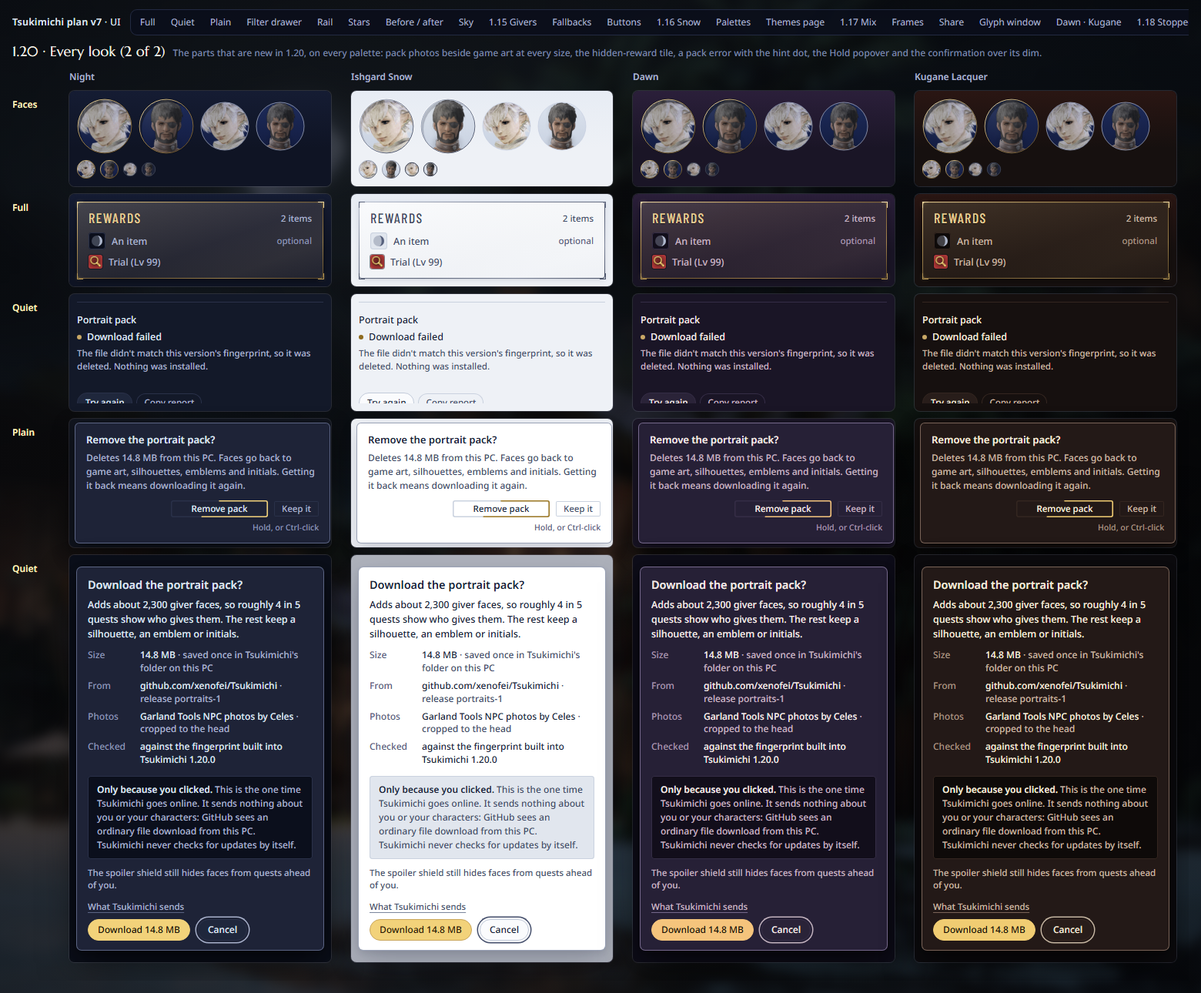
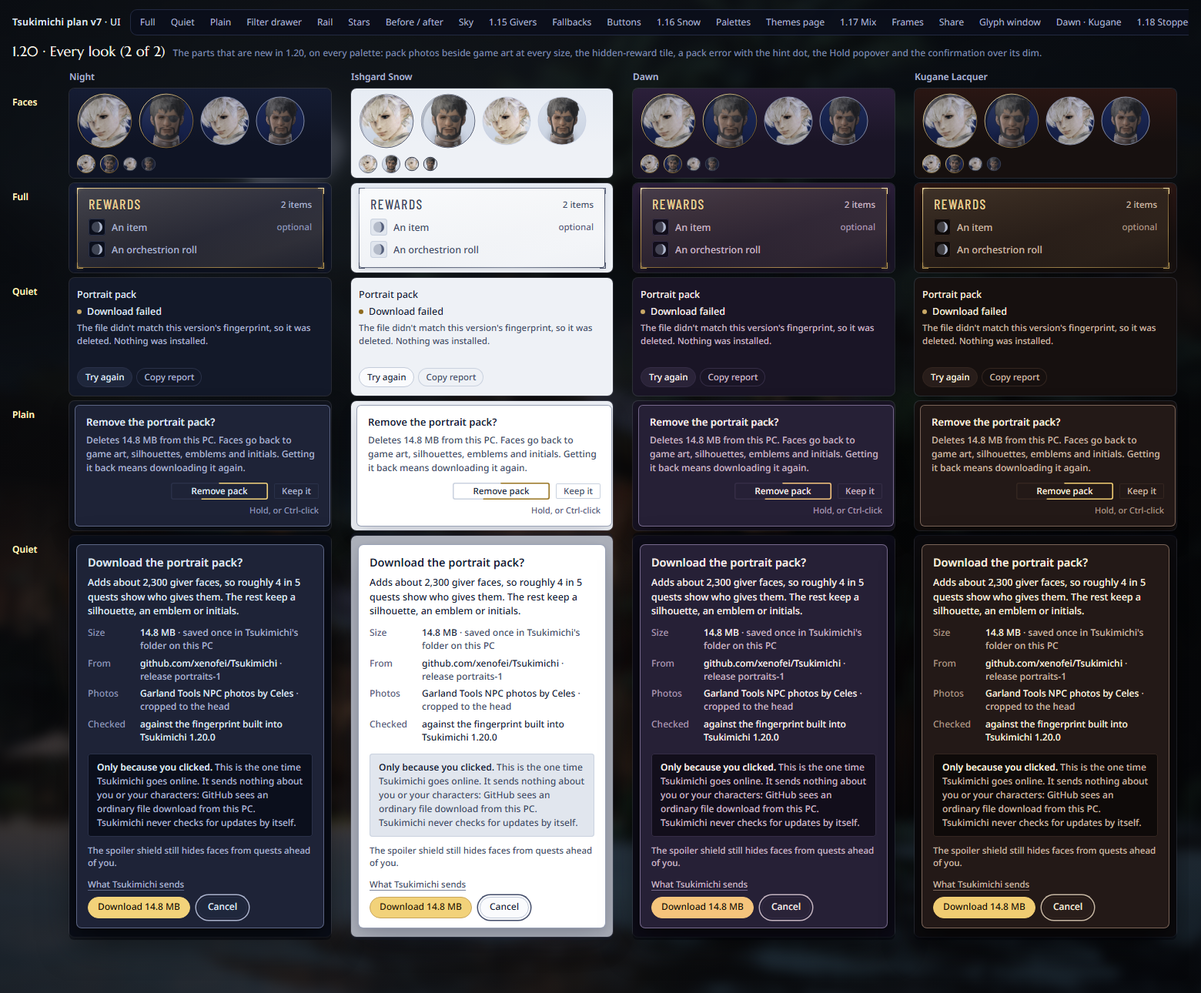
1.20 design round 3: own scrim over Settings, crop bias, review minors

diff --git a/docs/design/v7/ui/1.20/mock-1.20.html b/docs/design/v7/ui/1.20/mock-1.20.html
@@ -1844,7 +1844,7 @@ body{font:13px/1.4 "Noto Sans","Segoe UI",system-ui,sans-serif;-webkit-font-smoo
 .mk .sr20 .sm .tt20{text-align:left;font-size:11px;color:var(--dusk);line-height:1.45;margin-top:3px}
 .mk .sr20 .sa{display:flex;flex-direction:column;align-items:flex-end;gap:5px}
 .mk .sr20 .sa .p18{min-width:0}
-.mk .sr20 .sa small{font-size:10.5px;color:var(--dusk);text-align:right}
+.mk .sr20 .sa small{font-size:11px;color:var(--dusk);text-align:right}
 .mk .sr20.dis .sl,.mk .sr20.dis .sn{opacity:.55}
 .mk.plain .sr20{padding:7px 0}
 .mk .hd20dot{width:6px;height:6px;border-radius:50%;background:var(--hint);flex:none}
@@ -1997,7 +1997,7 @@ body{font:13px/1.4 "Noto Sans","Segoe UI",system-ui,sans-serif;-webkit-font-smoo
 .mk.plain .sr20.pk.nar{height:130px}
 /* placeholders in single-line slots */
 .mk .se20 .sres b,.mk .se20 .sres .via{white-space:nowrap;overflow:hidden;text-overflow:ellipsis}
-.mk .se20 .sres b.ph20{color:var(--mist);font-weight:500}
+.mk .se20 .sres b.ph20,.mk .se20 .sres b.ph20 *{color:var(--mist);font-weight:500}
 .mk .ro20 .rr{gap:10px}
 /* Chrome.HoldButton */
 .mk .hb20{position:relative;display:inline-flex;align-items:center;justify-content:center;font-size:12px;color:var(--silver);background:var(--raised)}
@@ -2008,7 +2008,7 @@ body{font:13px/1.4 "Noto Sans","Segoe UI",system-ui,sans-serif;-webkit-font-smoo
 .mk .hb20 svg{position:absolute;inset:0}
 .mk .hb20>span{position:relative}
 .mk.plain .hb20{font-size:11.5px}
-.mk .pop20 .hn{margin:6px 0 0;font-size:10.5px;color:var(--dusk);text-align:right}
+.mk .pop20 .hn{margin:6px 0 0;font-size:11px;color:var(--dusk);text-align:right}
 .mk .hbrow{display:flex;align-items:center;gap:10px}
 .mk .hbrow small{font-size:11px;color:var(--dusk)}
 .mk .pop20{box-sizing:border-box}
@@ -2031,6 +2031,10 @@ body{font:13px/1.4 "Noto Sans","Segoe UI",system-ui,sans-serif;-webkit-font-smoo
 .mk .be20.nar .ba .ys{padding-left:2px}
 .lg20 .be20 .bl{padding:6px 0}
 .lg20 .be20 .bs{margin-bottom:3px}
+/* round 3: the Plain giver line ellipsises; the error row's cell keeps its fixed height */
+.mk.plain .kv dd{overflow:hidden}
+.mk.plain .kv dd .mu,.mk.plain .kv dd .ph20{white-space:nowrap;overflow:hidden;text-overflow:ellipsis;min-width:0}
+.lg20 .set20 .sr20.pk{border-top:0;padding-top:4px}
 
 </style>
 </head>
@@ -5094,8 +5098,8 @@ body{font:13px/1.4 "Noto Sans","Segoe UI",system-ui,sans-serif;-webkit-font-smoo
   // The portrait pack's photos (Garland Tools NPC renders, credit Celes), head-cropped to the 1.15 framing rule:
   // crown 8–12 %, eye line 42–46 %, chin 78–84 %. 380 × 706 full-body renders on alpha.
   SRC.pack = { w: 380, h: 706, crop: [144, 106, 96, 96], fam: "colour", label: "Garland Tools photo · credit Celes" };
-  GIVERS.buscarron = { name: "Buscarron", file: "../1.20/art/Enpc_1000590", src: "pack", crop: [146, 107, 92], place: "Buscarron's Druthers · South Shroud" };
-  GIVERS.isembard = { name: "Isembard", file: "../1.20/art/Enpc_1003929", src: "pack", crop: [150, 113, 84], place: "Eastern Thanalan" };
+  GIVERS.buscarron = { name: "Buscarron", file: "../1.20/art/Enpc_1000590", src: "pack", crop: [150, 113, 82], place: "Buscarron's Druthers · South Shroud" };
+  GIVERS.isembard = { name: "Isembard", file: "../1.20/art/Enpc_1003929", src: "pack", crop: [154, 117, 76], place: "Eastern Thanalan" };
   function onPal(pal, fn) { var s = SNOW; SNOW = pal === "snow"; try { return fn(); } finally { SNOW = s; } }
   // The hidden-reward tile: the 1.15 moon disc (a .32 disc and its lit crescent), 14 px across on a 22 px tile.
   // On Ishgard Snow it takes the 1.16 fallback ink #56607C.
@@ -5132,7 +5136,7 @@ body{font:13px/1.4 "Noto Sans","Segoe UI",system-ui,sans-serif;-webkit-font-smoo
 
   // ---------- N6: the masked quest in the detail pane ----------
   function giver20(lv, size) {
-    if (lv === "plain") return '<div class="ps">Giver<span></span></div><dl class="kv"><dt>Giver</dt><dd>' + sil20(18, lv, "hyur-female") + ph("Dawntrail character") + '<span class="mu">· ' + nb("Dawntrail area 6") + "</span></dd></dl>";
+    if (lv === "plain") return '<div class="ps">Giver<span></span></div><dl class="kv"><dt>Giver</dt><dd>' + sil20(18, lv, "hyur-female") + ph("Dawntrail character") + '<span class="mu">· ' + nb("area 6") + "</span></dd></dl>";
     return sect19(lv, "Giver", "", '<div class="gv20">' + sil20(size || (lv === "quiet" ? 64 : 72), lv, "hyur-female") + '<div class="gt"><b class="ph20">Dawntrail character</b><span>' + nb("Dawntrail area 6") + "</span></div></div>");
   }
   function shieldDetail(lv) {
@@ -5204,7 +5208,7 @@ body{font:13px/1.4 "Noto Sans","Segoe UI",system-ui,sans-serif;-webkit-font-smoo
   // ---------- N7: the Before Evercold card ----------
   var BE = {
     story: { icon: ic15("071201", 18, "marker"), t: "Finish the main story", d: "14 quests left, through Patch 7.5", a: [qa19("Show next"), qa19("Route")] },
-    room: { icon: ICON.book, t: "Room in your journal", d: "27 of 30 slots used. Evercold brings new quests.", a: [qa19("Make room")] },
+    room: { icon: ICON.book, t: "Room in your journal", d: "27 of 30 slots used; Evercold adds quests.", a: [qa19("Make room")] },
     jobs: { icon: ic15("062122", 18, "tile"), t: "Job and role quests", d: "Your DRG, SGE and CUL have quests you can take now", a: [qa19("Show them")] },
     duties: { icon: ic15("000046", 18, "tile"), t: "Duties for the roulettes", d: "2 Dawntrail duties not unlocked yet", a: [qa19("Duties board")] },
     fly: { icon: ic15("000122", 18, "tile"), t: "Flying in Dawntrail", d: "2 areas left: Shaaloani, " + ph("Dawntrail area 6"), a: [qa19("Route")] }
@@ -5312,14 +5316,14 @@ body{font:13px/1.4 "Noto Sans","Segoe UI",system-ui,sans-serif;-webkit-font-smoo
   function boardPack() {
     var h = '<div class="board b15 b16 b20"><h2>1.20 · The portrait pack<small>F4. Opt-in, from Tsukimichi\'s own GitHub release, behind a confirmation that says size, source and the local-only promise. One row in Settings › General › Look shows every state in place, at one fixed height.</small></h2><div class="row">';
     h += '<div class="col" style="width:760px">';
-    h += fig(look18("full", "night", '<div class="scrim20"><div class="under">' + lookSettings("full", "none", 1) + '</div><div class="over">' + packDialog("full") + "</div></div>", 760), "<b>Download…</b>, or picking <b>Game art + pack</b> without the pack, opens the confirmation: a modal over Settings, its dim the only scrim. Focus starts on Cancel; Enter and Esc cancel");
+    h += fig(look18("full", "night", '<div class="scrim20"><div class="under">' + lookSettings("full", "none", 1) + '</div><div class="over">' + packDialog("full") + "</div></div>", 760), "<b>Download…</b>, or picking <b>Game art + pack</b> without the pack, opens the confirmation: a window kept in front of Settings, with its own scrim over Settings only (not ImGui's full-screen modal dim). Focus starts on Cancel; Enter and Esc cancel");
     h += fig(look18("full", "night", '<div class="set20">' + packRow("full", "dl") + packRow("full", "chk") + packRow("full", "ok") + packRow("full", "upd") + "</div>", 760), "<b>Downloading → checking → installed</b>, and the <b>update offer</b> after Dalamud updates Tsukimichi: every state the same height, slots reserved");
     h += "</div>";
     h += '<div class="col" style="width:740px">';
     h += fig(look18("full", "night", '<div class="set20">' + packRow("full", "net") + packRow("full", "hash") + packRow("full", "disk") + packRow("full", "cxl") + "</div>", 740), "<b>Errors</b>: words in Text with the Settings hint dot; the reason, what was kept, one way forward. The same fixed height");
     h += '<div class="row">';
     h += fig(look18("full", "night", removePop("full", 58) + '<div style="height:8px"></div><div class="hbrow">' + hold20("full", "Remove pack", 0, true) + "<small>Reduce motion: the countdown</small></div>", 360, ";background:transparent"), "<b>Remove pack…</b>: the confirm with the shipped Hold button, mid-hold (a Moon arc from the top centre)");
-    h += fig(look18("full", "night", '<div class="tipf20">' + pface(92, "full", "buscarron") + "<b>Buscarron</b><p class=\"src\">Portrait: Garland Tools photo · credit Celes</p><p>Buscarron's Druthers · South Shroud</p></div>", 220, ";background:transparent"), "<b>Hover</b>: a pack photo is never drawn above its own box (92 px here)");
+    h += fig(look18("full", "night", '<div class="tipf20">' + pface(82, "full", "buscarron") + "<b>Buscarron</b><p class=\"src\">Portrait: Garland Tools photo · credit Celes</p><p>Buscarron's Druthers · South Shroud</p></div>", 220, ";background:transparent"), "<b>Hover</b>: a pack photo is never drawn above its own box (82 px here)");
     h += "</div>";
     h += fig(look18("full", "night", '<div class="ba20">' + plate(72, "full", "initials", { text: "B" }) + '<span class="ar">→</span>' + pface(72, "full", "buscarron") + '<span style="width:24px"></span>' + sil20(72, "full", "hyur-male") + '<span class="ar">→</span>' + pface(72, "full", "isembard") + '<span style="width:24px"></span>' + face(72, "full", "alphinaud") + "</div>", 740), "<b>With the pack</b>: Buscarron (initials → photo), Isembard (silhouette → photo), and Alphinaud's Duty Support portrait for comparison, all graded alike; faces fade in over 0.3 s");
     h += fig(look18("full", "night", '<span class="sbn20"><b>Portrait pack installed</b>· 2,310 faces</span><div style="height:8px"></div><div class="set20"><div class="sr20" style="grid-template-columns:150px 1fr"><span class="sl">Sends</span><div class="sm"><div class="sn">Nothing, except the portrait pack when you click Download: one file from Tsukimichi\'s GitHub release.</div></div></div></div>', 740), "<b>Status-bar note</b> when it lands, and the <b>Privacy &amp; trust</b> line that changes with F4");
@@ -5348,7 +5352,7 @@ body{font:13px/1.4 "Noto Sans","Segoe UI",system-ui,sans-serif;-webkit-font-smoo
     h = lookHead(h);
     var rows = [
       ["Faces", "full", function (lv) { return '<div class="fs20">' + face(72, "full", "alphinaud") + pface(72, "full", "buscarron") + face(64, "quiet", "alphinaud") + pface(64, "quiet", "buscarron") + '<span class="sm20">' + face(24, "full", "alphinaud") + pface(24, "full", "buscarron") + face(18, "plain", "alphinaud") + pface(18, "plain", "buscarron") + "</span></div>"; }],
-      ["Full", "full", function (lv) { return sect19(lv, "Rewards", "2 items", '<div class="rwl20" style="margin-top:0">' + hid20() + ph("An item") + '<span class="k">optional</span></div><div class="rwl20">' + ic15("000046", 18, "tile") + ph("Trial (Lv 99)") + "</div>"); }],
+      ["Full", "full", function (lv) { return sect19(lv, "Rewards", "2 items", '<div class="rwl20" style="margin-top:0">' + hid20() + ph("An item") + '<span class="k">optional</span></div><div class="rwl20">' + hid20() + ph("An orchestrion roll") + "</div>"); }],
       ["Quiet", "quiet", function (lv) { return '<div class="set20">' + packRow(lv, "hash", false, true) + "</div>"; }],
       ["Plain", "plain", function (lv) { return removePop(lv, 58); }],
       ["Quiet", "quiet", function (lv) { return '<div class="dim20">' + packDialog(lv, false, "cmp") + "</div>"; }]

diff --git a/docs/design/v7/ui/1.20/mock-src/v720.js b/docs/design/v7/ui/1.20/mock-src/v720.js
@@ -8,8 +8,8 @@
   // The portrait pack's photos (Garland Tools NPC renders, credit Celes), head-cropped to the 1.15 framing rule:
   // crown 8–12 %, eye line 42–46 %, chin 78–84 %. 380 × 706 full-body renders on alpha.
   SRC.pack = { w: 380, h: 706, crop: [144, 106, 96, 96], fam: "colour", label: "Garland Tools photo · credit Celes" };
-  GIVERS.buscarron = { name: "Buscarron", file: "../1.20/art/Enpc_1000590", src: "pack", crop: [146, 107, 92], place: "Buscarron's Druthers · South Shroud" };
-  GIVERS.isembard = { name: "Isembard", file: "../1.20/art/Enpc_1003929", src: "pack", crop: [150, 113, 84], place: "Eastern Thanalan" };
+  GIVERS.buscarron = { name: "Buscarron", file: "../1.20/art/Enpc_1000590", src: "pack", crop: [150, 113, 82], place: "Buscarron's Druthers · South Shroud" };
+  GIVERS.isembard = { name: "Isembard", file: "../1.20/art/Enpc_1003929", src: "pack", crop: [154, 117, 76], place: "Eastern Thanalan" };
   function onPal(pal, fn) { var s = SNOW; SNOW = pal === "snow"; try { return fn(); } finally { SNOW = s; } }
   // The hidden-reward tile: the 1.15 moon disc (a .32 disc and its lit crescent), 14 px across on a 22 px tile.
   // On Ishgard Snow it takes the 1.16 fallback ink #56607C.
@@ -46,7 +46,7 @@
 
   // ---------- N6: the masked quest in the detail pane ----------
   function giver20(lv, size) {
-    if (lv === "plain") return '<div class="ps">Giver<span></span></div><dl class="kv"><dt>Giver</dt><dd>' + sil20(18, lv, "hyur-female") + ph("Dawntrail character") + '<span class="mu">· ' + nb("Dawntrail area 6") + "</span></dd></dl>";
+    if (lv === "plain") return '<div class="ps">Giver<span></span></div><dl class="kv"><dt>Giver</dt><dd>' + sil20(18, lv, "hyur-female") + ph("Dawntrail character") + '<span class="mu">· ' + nb("area 6") + "</span></dd></dl>";
     return sect19(lv, "Giver", "", '<div class="gv20">' + sil20(size || (lv === "quiet" ? 64 : 72), lv, "hyur-female") + '<div class="gt"><b class="ph20">Dawntrail character</b><span>' + nb("Dawntrail area 6") + "</span></div></div>");
   }
   function shieldDetail(lv) {
@@ -118,7 +118,7 @@
   // ---------- N7: the Before Evercold card ----------
   var BE = {
     story: { icon: ic15("071201", 18, "marker"), t: "Finish the main story", d: "14 quests left, through Patch 7.5", a: [qa19("Show next"), qa19("Route")] },
-    room: { icon: ICON.book, t: "Room in your journal", d: "27 of 30 slots used. Evercold brings new quests.", a: [qa19("Make room")] },
+    room: { icon: ICON.book, t: "Room in your journal", d: "27 of 30 slots used; Evercold adds quests.", a: [qa19("Make room")] },
     jobs: { icon: ic15("062122", 18, "tile"), t: "Job and role quests", d: "Your DRG, SGE and CUL have quests you can take now", a: [qa19("Show them")] },
     duties: { icon: ic15("000046", 18, "tile"), t: "Duties for the roulettes", d: "2 Dawntrail duties not unlocked yet", a: [qa19("Duties board")] },
     fly: { icon: ic15("000122", 18, "tile"), t: "Flying in Dawntrail", d: "2 areas left: Shaaloani, " + ph("Dawntrail area 6"), a: [qa19("Route")] }
@@ -226,14 +226,14 @@
   function boardPack() {
     var h = '<div class="board b15 b16 b20"><h2>1.20 · The portrait pack<small>F4. Opt-in, from Tsukimichi\'s own GitHub release, behind a confirmation that says size, source and the local-only promise. One row in Settings › General › Look shows every state in place, at one fixed height.</small></h2><div class="row">';
     h += '<div class="col" style="width:760px">';
-    h += fig(look18("full", "night", '<div class="scrim20"><div class="under">' + lookSettings("full", "none", 1) + '</div><div class="over">' + packDialog("full") + "</div></div>", 760), "<b>Download…</b>, or picking <b>Game art + pack</b> without the pack, opens the confirmation: a modal over Settings, its dim the only scrim. Focus starts on Cancel; Enter and Esc cancel");
+    h += fig(look18("full", "night", '<div class="scrim20"><div class="under">' + lookSettings("full", "none", 1) + '</div><div class="over">' + packDialog("full") + "</div></div>", 760), "<b>Download…</b>, or picking <b>Game art + pack</b> without the pack, opens the confirmation: a window kept in front of Settings, with its own scrim over Settings only (not ImGui's full-screen modal dim). Focus starts on Cancel; Enter and Esc cancel");
     h += fig(look18("full", "night", '<div class="set20">' + packRow("full", "dl") + packRow("full", "chk") + packRow("full", "ok") + packRow("full", "upd") + "</div>", 760), "<b>Downloading → checking → installed</b>, and the <b>update offer</b> after Dalamud updates Tsukimichi: every state the same height, slots reserved");
     h += "</div>";
     h += '<div class="col" style="width:740px">';
     h += fig(look18("full", "night", '<div class="set20">' + packRow("full", "net") + packRow("full", "hash") + packRow("full", "disk") + packRow("full", "cxl") + "</div>", 740), "<b>Errors</b>: words in Text with the Settings hint dot; the reason, what was kept, one way forward. The same fixed height");
     h += '<div class="row">';
     h += fig(look18("full", "night", removePop("full", 58) + '<div style="height:8px"></div><div class="hbrow">' + hold20("full", "Remove pack", 0, true) + "<small>Reduce motion: the countdown</small></div>", 360, ";background:transparent"), "<b>Remove pack…</b>: the confirm with the shipped Hold button, mid-hold (a Moon arc from the top centre)");
-    h += fig(look18("full", "night", '<div class="tipf20">' + pface(92, "full", "buscarron") + "<b>Buscarron</b><p class=\"src\">Portrait: Garland Tools photo · credit Celes</p><p>Buscarron's Druthers · South Shroud</p></div>", 220, ";background:transparent"), "<b>Hover</b>: a pack photo is never drawn above its own box (92 px here)");
+    h += fig(look18("full", "night", '<div class="tipf20">' + pface(82, "full", "buscarron") + "<b>Buscarron</b><p class=\"src\">Portrait: Garland Tools photo · credit Celes</p><p>Buscarron's Druthers · South Shroud</p></div>", 220, ";background:transparent"), "<b>Hover</b>: a pack photo is never drawn above its own box (82 px here)");
     h += "</div>";
     h += fig(look18("full", "night", '<div class="ba20">' + plate(72, "full", "initials", { text: "B" }) + '<span class="ar">→</span>' + pface(72, "full", "buscarron") + '<span style="width:24px"></span>' + sil20(72, "full", "hyur-male") + '<span class="ar">→</span>' + pface(72, "full", "isembard") + '<span style="width:24px"></span>' + face(72, "full", "alphinaud") + "</div>", 740), "<b>With the pack</b>: Buscarron (initials → photo), Isembard (silhouette → photo), and Alphinaud's Duty Support portrait for comparison, all graded alike; faces fade in over 0.3 s");
     h += fig(look18("full", "night", '<span class="sbn20"><b>Portrait pack installed</b>· 2,310 faces</span><div style="height:8px"></div><div class="set20"><div class="sr20" style="grid-template-columns:150px 1fr"><span class="sl">Sends</span><div class="sm"><div class="sn">Nothing, except the portrait pack when you click Download: one file from Tsukimichi\'s GitHub release.</div></div></div></div>', 740), "<b>Status-bar note</b> when it lands, and the <b>Privacy &amp; trust</b> line that changes with F4");
@@ -262,7 +262,7 @@
     h = lookHead(h);
     var rows = [
       ["Faces", "full", function (lv) { return '<div class="fs20">' + face(72, "full", "alphinaud") + pface(72, "full", "buscarron") + face(64, "quiet", "alphinaud") + pface(64, "quiet", "buscarron") + '<span class="sm20">' + face(24, "full", "alphinaud") + pface(24, "full", "buscarron") + face(18, "plain", "alphinaud") + pface(18, "plain", "buscarron") + "</span></div>"; }],
-      ["Full", "full", function (lv) { return sect19(lv, "Rewards", "2 items", '<div class="rwl20" style="margin-top:0">' + hid20() + ph("An item") + '<span class="k">optional</span></div><div class="rwl20">' + ic15("000046", 18, "tile") + ph("Trial (Lv 99)") + "</div>"); }],
+      ["Full", "full", function (lv) { return sect19(lv, "Rewards", "2 items", '<div class="rwl20" style="margin-top:0">' + hid20() + ph("An item") + '<span class="k">optional</span></div><div class="rwl20">' + hid20() + ph("An orchestrion roll") + "</div>"); }],
       ["Quiet", "quiet", function (lv) { return '<div class="set20">' + packRow(lv, "hash", false, true) + "</div>"; }],
       ["Plain", "plain", function (lv) { return removePop(lv, 58); }],
       ["Quiet", "quiet", function (lv) { return '<div class="dim20">' + packDialog(lv, false, "cmp") + "</div>"; }]

diff --git a/docs/design/v7/ui/1.20/mock-src/v720.css b/docs/design/v7/ui/1.20/mock-src/v720.css
@@ -66,7 +66,7 @@
 .mk .sr20 .sm .tt20{text-align:left;font-size:11px;color:var(--dusk);line-height:1.45;margin-top:3px}
 .mk .sr20 .sa{display:flex;flex-direction:column;align-items:flex-end;gap:5px}
 .mk .sr20 .sa .p18{min-width:0}
-.mk .sr20 .sa small{font-size:10.5px;color:var(--dusk);text-align:right}
+.mk .sr20 .sa small{font-size:11px;color:var(--dusk);text-align:right}
 .mk .sr20.dis .sl,.mk .sr20.dis .sn{opacity:.55}
 .mk.plain .sr20{padding:7px 0}
 .mk .hd20dot{width:6px;height:6px;border-radius:50%;background:var(--hint);flex:none}
@@ -219,7 +219,7 @@
 .mk.plain .sr20.pk.nar{height:130px}
 /* placeholders in single-line slots */
 .mk .se20 .sres b,.mk .se20 .sres .via{white-space:nowrap;overflow:hidden;text-overflow:ellipsis}
-.mk .se20 .sres b.ph20{color:var(--mist);font-weight:500}
+.mk .se20 .sres b.ph20,.mk .se20 .sres b.ph20 *{color:var(--mist);font-weight:500}
 .mk .ro20 .rr{gap:10px}
 /* Chrome.HoldButton */
 .mk .hb20{position:relative;display:inline-flex;align-items:center;justify-content:center;font-size:12px;color:var(--silver);background:var(--raised)}
@@ -230,7 +230,7 @@
 .mk .hb20 svg{position:absolute;inset:0}
 .mk .hb20>span{position:relative}
 .mk.plain .hb20{font-size:11.5px}
-.mk .pop20 .hn{margin:6px 0 0;font-size:10.5px;color:var(--dusk);text-align:right}
+.mk .pop20 .hn{margin:6px 0 0;font-size:11px;color:var(--dusk);text-align:right}
 .mk .hbrow{display:flex;align-items:center;gap:10px}
 .mk .hbrow small{font-size:11px;color:var(--dusk)}
 .mk .pop20{box-sizing:border-box}
@@ -253,3 +253,7 @@
 .mk .be20.nar .ba .ys{padding-left:2px}
 .lg20 .be20 .bl{padding:6px 0}
 .lg20 .be20 .bs{margin-bottom:3px}
+/* round 3: the Plain giver line ellipsises; the error row's cell keeps its fixed height */
+.mk.plain .kv dd{overflow:hidden}
+.mk.plain .kv dd .mu,.mk.plain .kv dd .ph20{white-space:nowrap;overflow:hidden;text-overflow:ellipsis;min-width:0}
+.lg20 .set20 .sr20.pk{border-top:0;padding-top:4px}

diff --git a/docs/design/v7/ui/spec-1.20.md b/docs/design/v7/ui/spec-1.20.md
@@ -18,6 +18,8 @@ The behaviour follows ideas 3 and 4 of `docs/research/plan-v7/feature-ideas.md` 
 5. Placeholders get a layout rule: non-breaking locators, single-line slots with an ellipsis, multi-line slots sized for the longer string, and composite strings in Secondary as a whole (N6).
 6. A second looks board covers every new part on every palette (`looks-new-1.20.png`).
 
+**Revision 3** applies the second review (CHANGES: one major finding). The confirmation no longer uses ImGui's modal dim, which covers the whole game screen, fades on its own clock and ignores the plugin's colours. Tsukimichi draws its own scrim over the Settings window only and blocks Settings' input itself (F4, "The confirmation"). Five minor findings and the nits are fixed in the same pass.
+
 **The principles:**
 - **Nothing new floats.** The shield changes words, not layout. The prep card is a card inside Tonight and the Characters dashboard. The pack is one Settings row, plus a confirmation window that opens only on a click.
 - **Static layout.** A placeholder takes the place of the name it hides, at the same size. The prep card never reorders while you look at it. The pack row keeps its height through every state.
@@ -32,14 +34,14 @@ The behaviour follows ideas 3 and 4 of `docs/research/plan-v7/feature-ideas.md` 
 | `spec-1.20.md` | This spec |
 | `1.20/mock-1.20.html` | The 1.20 boards: `#shield20`, `#prep20`, `#pack20`, `#looks20`, `#looks20b`. Built by `1.20/mock-src/build.py` from the shared `mock.html` plus `1.20/mock-src/v720.css` and `v720.js`. No shared `mock-src` file changes. |
 | `1.20/shield-1.20.png` | N6: a masked quest in the detail pane, table rows before and after, Settings › Spoilers, the hover and right-click, Route, Find by unlock, and the placeholder vocabulary |
-| `1.20/prep-card-1.20.png` | N7: the card in Tonight, a stored alt in the Characters dashboard, all done, the Undo toast, the way back, the line hover and the five lines' rules |
-| `1.20/portrait-pack-1.20.png` | F4: the confirmation over Settings › General › Look, downloading, checking, installed, the update offer, four errors and Cancelled, Remove pack, the pack faces at 72, 64 and 18 px, the hover, the status-bar note and the Privacy & trust line |
+| `1.20/prep-card-1.20.png` | N7: the card in Tonight, a stored alt in the Characters dashboard, a tick before and after, all done, the Undo toast, the way back, the line hover and the five lines' rules |
+| `1.20/portrait-pack-1.20.png` | F4: the confirmation over Settings › General › Look, downloading, checking, installed, the update offer, three errors and Cancelled, Remove pack (mid-hold, and the Reduce-motion countdown), two pack faces beside Alphinaud's game-art face at 72 px, the hover, the status-bar note and the Privacy & trust line |
 | `1.20/looks-1.20.png` | Every look (1 of 2): the prep card, a masked giver and the pack row at Full, Quiet and Plain on Night, Ishgard Snow, Dawn and Kugane Lacquer |
 | `1.20/looks-new-1.20.png` | Every look (2 of 2), on all four palettes: pack photos beside a game-art face at 72, 64, 24 and 18 px; the hidden-reward tile; a pack error with the hint dot; the Remove pack popover at Plain; the compact confirmation over its dim at Quiet |
 | `1.20/mock-src/render.py` | Renders the five PNGs with headless Chrome at 1560 px wide (long edge ≤ 1568) |
 | `1.20/art/Enpc_1000590.png`, `Enpc_1003929.png` | Two Garland Tools NPC photos (Buscarron, Isembard; photos by Celes), for the mock only, to show what pack faces look like on the 1.15 plate |
 
-**The mock's data.** The Dawntrail zone names (Heritage Found, Living Memory, Kozama'uka, Shaaloani), duty names and levels (Vanguard 97, Origenics 99, Alexandria 100, The Interphos 100) are real. Which quest unlocks which, the area numbers and the character's counts are illustrative. The two pack photos are real Garland Tools renders, cropped by the 1.15 framing rule (Buscarron: box 146, 107, 92; Isembard: 150, 113, 84, measured on a 4× zoom).
+**The mock's data.** The Dawntrail zone names (Heritage Found, Living Memory, Kozama'uka, Shaaloani), duty names and levels (Vanguard 97, Origenics 99, Alexandria 100, The Interphos 100) are real. Which quest unlocks which, the area numbers and the character's counts are illustrative. The two pack photos are real Garland Tools renders, cropped by the 1.15 framing rule (Buscarron: box 150, 113, 82; Isembard: 154, 117, 76, measured on a 4× zoom; eye line at 43%, chin at 82–83%).
 
 ---
 
@@ -91,8 +93,9 @@ Today the shield hides main scenario quest names past your position (plus a few 
 - **The same size, weight and slot as the name.** Only the colour changes: Secondary instead of Text. That includes masked main scenario titles, which move from Text to Secondary in the hero, the table and every list.
 - **Locators never break:** "area 6", "Lv 97" and "Patch 7.5" keep a non-breaking space.
 - **Nothing moves when a name is revealed or hidden.** Placeholders are often longer than the names they hide ("Dawntrail area 6" for "Shaaloani"), so:
-  - single-line slots (table cells, search results, Route and Next stops, the Plain giver line) never wrap: they end in an ellipsis, and the hover shows the whole string;
+  - single-line slots (table cells, search results, Route and Next stops, the Plain giver line) never wrap: they end in a real "…", and the hover shows the whole string. Where a slot holds a name and a place, the place is shortened first to its locator ("area 6", as Route does), then the name is truncated, so the locator is never the part cut off;
   - multi-line slots (the prep card's details, tooltips, the Unlocks section) are wrapped for the longer of the name and its placeholder, so a reveal never changes their line count.
+- **A placeholder keeps the weight of the name it replaces** (medium in search results and titles, regular in lines).
 - **A string that holds a placeholder is Secondary as a whole:** "Flying in Dawntrail area 6", not "Flying in" in Text and the rest in Secondary.
 - **No glyph, no blur, no redaction bar, no italics** (the game fonts have none). The word is the signal.
 - **Kind icons stay** where they are generic: the aetheryte symbol (060453), the Duty Finder tile (000046), the duty badges (C7). They say what kind of thing it is, not which.
@@ -160,7 +163,7 @@ It shows from the day 1.20 installs until Evercold's launch day. The plugin know
 | Title | "Before Evercold" in the Title face (16 px), × at the trailing end | semibold 13.5 px | 12.5 px in the band |
 | Sub-line | "For Michiru · early access 22 Jan (expected)", 11.5 px Secondary | the same | the same |
 | Line | a 14 px checkbox, an 18 px icon, the label (12.5 px Text, medium) over the detail (11.5 px Secondary), and quiet buttons | the same | the same |
-| Fold | "Done: Flying in Dawntrail", 11 px Tertiary, one line under a hairline | the same | the same |
+| Fold | "Done: Job and role quests", 11 px Tertiary, one line under a hairline | the same | the same |
 
 **The buttons sit at the trailing end in a card of 460 px or more,** in a fixed 150 px column, and under the line's words in a narrower card, in a fixed 24 px row (the looks matrices show the narrow form). The choice is made per card width, never per line, so lines never differ.
 
@@ -231,7 +234,11 @@ Sizes, counts and the release name come from a manifest compiled into the plugin
 
 ### The confirmation
 
-A modal popup of the Settings window (`BeginPopupModal`), 470 px wide and centred on it. ImGui's modal dim is the scrim, set from the palette: `rgba(5,7,14,.55)` on the dark palettes, `rgba(26,33,54,.30)` on Ishgard Snow. It is the only dimming: Settings is not faded or desaturated as well. While it is open Settings ignores input, and clicking Settings leaves the modal in front. (`LinkConfirmWindow` is a plain window with no scrim; this one asks about a network action, so it blocks.)
+A small window of its own, 470 px wide, centred on the Settings window and kept in front of it. **It does not use ImGui's modal popup:** `BeginPopupModal`'s dim covers the whole game screen, fades in on ImGui's own clock (about 0.17 s, ignoring Reduce motion), and is drawn after the plugin's style colours are popped, so it would take Dalamud's colour, not the palette's. Instead:
+- **The scrim is Tsukimichi's own:** a filled rect over the Settings window's rect only (the dialog window's draw list, its clip rect pushed to the Settings rect), in `rgba(5,7,14,.55)` on the dark palettes and `rgba(26,33,54,.30)` on Ishgard Snow. The game and other windows stay as they are. It is the only dimming: Settings is not faded or desaturated as well.
+- **Settings ignores input** while the dialog is open (it draws inside `BeginDisabled` without the dimmed alpha, so only the scrim dims it), and a click on Settings brings the dialog back to the front (`SetNextWindowFocus`).
+- **It goes when** the player cancels, downloads, closes Settings or the plugin unloads.
+- `LinkConfirmWindow` stays as it is; this one blocks because it asks about the one network action.
 
 1. **Title** in the Title face at Full (semibold at Quiet and Plain): "Download the portrait pack?"
 2. **What:** "Adds about 2,300 giver faces, so roughly 4 in 5 quests show who gives them. The rest keep a silhouette, an emblem or initials."
@@ -246,7 +253,7 @@ A modal popup of the Settings window (`BeginPopupModal`), 470 px wide and centre
 
 **Keyboard focus starts on Cancel** (`SetItemDefaultFocus`), and Enter is handled as Cancel explicitly, so Enter never downloads by accident. Esc cancels too. The focus ring is TextSecondary (6:1 or better on the dialog), not the Line tone. The update uses the same window with "Download pack 2?", "Adds 140 faces and replaces pack 1 when it's checked." and the new size.
 
-**Motion:** the window and scrim use `Rise` (0.16 s, 4 px) and `Leave` (0.12 s), through `PopupFade`. Instant under Reduce motion.
+**Motion:** the dialog uses `Rise` (0.16 s, 4 px) and `Leave` (0.12 s), and the scrim fades with it over the same times, through `PopupFade` and the plugin's own clock. Both are instant under Reduce motion.
 
 ### Progress and arrival
 
@@ -285,6 +292,7 @@ The plugin never asks GitHub whether a newer pack exists. Each Tsukimichi releas
 
 - The pack's photos are full-body renders, cut to a square box per photo by the 1.15 framing rule (crown 8–12%, eye line 42–46%, chin 78–84%) at DataGen time, with the contact sheet's guide bands for a spot check.
 - They are graded as a colour family (A3), so a pack face sits beside a Duty Support bust without looking like a different feature.
+- **Pack crops sit high in the bands:** the eye line at 42–44% and the chin at 82–84%, so a pack head fills the plate as fully as a Duty Support bust beside it. The DataGen contact sheet checks this side by side with a game-art face.
 - **A pack photo is never drawn above its own box** (its source pixels, 1.0×): the hover shows it at min(128, box), so a 92 px box shows at 92 px. Its source line is "Portrait: Garland Tools photo · credit Celes".
 - **DataGen keeps only photos whose head box is at least 72 px,** so the 72 px plate never upscales at 100% UI scale; a smaller photo falls through to the next source (A1). Above 100%, a pack face may upscale by up to the scale factor, as game art does.
 - **The crown band applies to the skull,** not to a hat or turban (Isembard's turban top sits above it).
@@ -324,7 +332,7 @@ The second matrix shows every part new in 1.20 on all four palettes:
 
 **High-contrast forms:** placeholders move to Text with a 1 px dotted underline (Secondary is too close to Text to matter there, and the underline keeps them distinct). The moon-disc tile gets a 1.5 px outline. The progress bar's track gets a 1 px outline.
 
-**Text size and UI scale:** every size above is at 100%. The card's line height, the pack row's height and the dialog's width scale with them. The prep card's buttons drop under the words when the card is under 400 px wide at the current scale.
+**Text size and UI scale:** every size above is at 100%. The card's line height, the pack row's height and the dialog's width scale with them. The prep card's buttons drop under the words when the card is under 460 px wide at the current scale; the pack row's actions do so under 400 px.
 
 ---
 
@@ -345,7 +353,7 @@ The second matrix shows every part new in 1.20 on all four palettes:
 | The launch date | curated data beside `festivals.json` (one date, rechecked after Tokyo) |
 | Giver portraits choice | `ConfigWindow.General.cs` (`DrawLook`), `GiverPortraitMode.GameArtAndPack` in `Tsukimichi.Core/Ui/PortraitPlate.cs`, `Strings.Portraits.cs` |
 | The pack row | a new `ConfigWindow.PortraitPack.cs` |
-| The confirmation | a modal popup drawn by `ConfigWindow.PortraitPack.cs` (`BeginPopupModal`, `ModalWindowDimBg` from the palette), faded through `PopupFade` |
+| The confirmation | a new `PortraitPackWindow.cs` (a `Window` kept in front of Settings), with its own scrim clipped to the Settings rect; `ConfigWindow` draws inside `BeginDisabled` while it is open; faded through `PopupFade` |
 | Manifest, download, check, install, remove | a new `Tsukimichi.Core/Portraits/PortraitPackManifest.cs` (compiled-in name, size, SHA-256, URL) and `PortraitPackStore.cs` (verify, swap in, remove); the one download call in a new `Tsukimichi/Portraits/PortraitPackDownload.cs` |
 | Pack faces | `PortraitSource.PackPhoto` first in `PortraitIndex`; `GiverPortraits.cs`, `PortraitGrading.cs` (colour family) |
 | Remove at the Hold tier | `SafetyRules.cs` (`GuardedAction.RemovePortraitPack`, `SafetyTier.Hold`), `Chrome.HoldButton` in `Chrome.cs` (unchanged) |
@@ -373,7 +381,7 @@ The second matrix shows every part new in 1.20 on all four palettes:
 14. **Remove pack is at the Hold tier with no Undo,** because getting it back takes a download. It uses the shipped Hold button unchanged; no destructive colour variant is added.
 15. **Installing switches Giver portraits to Game art + pack;** picking that choice without the pack opens the confirmation.
 16. **Every placeholder slot is either single-line with an ellipsis or sized for the longer string,** so a reveal never reflows anything.
-17. **The confirmation is a modal** with ImGui's dim as its scrim, because it asks about the one network action.
+17. **The confirmation blocks Settings, not the game.** Its scrim is Tsukimichi's own, over Settings only, in the palette's colour, and it follows Reduce motion. ImGui's modal dim is not used.
 
 ## Open questions
 
